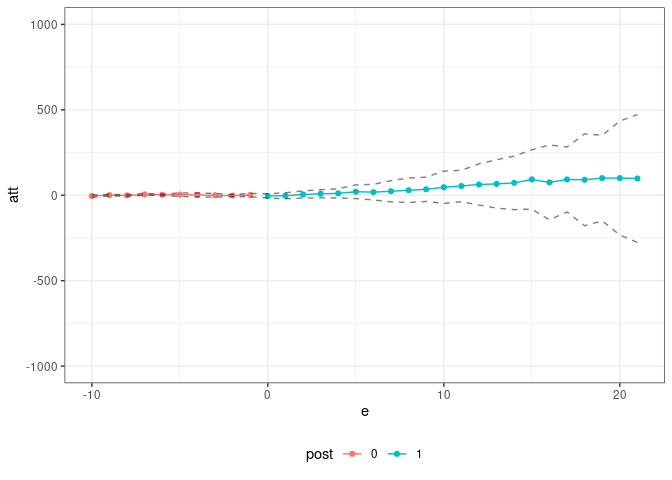
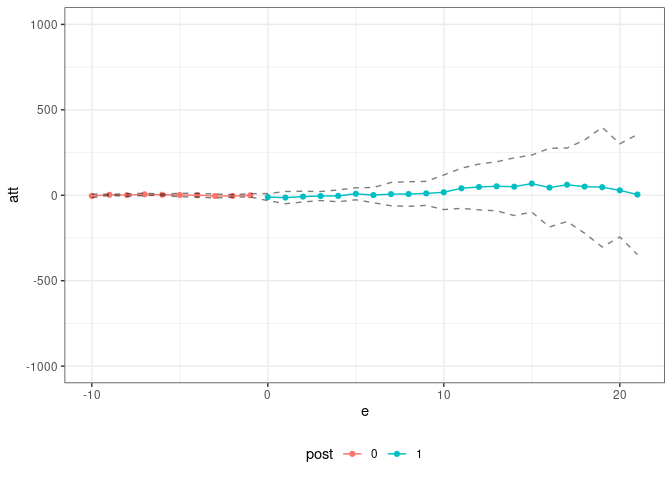
updated readme

diff --git a/README.md b/README.md
@@ -43,7 +43,7 @@ order.
 data(covid_data)
 
 # formula for covariates
-xformla <- ~ current + current^2 + current^3 + region + totalTestResults
+xformla <- ~ current + I(current^2) + I(current^2) + region + totalTestResults
 ```
 
 A first issue is that there are major overlap violations — for example,
@@ -66,8 +66,8 @@ time_id_list <- unlist(trim_id_list)
 ``` r
 # states that we will drop
 unique(subset(covid_data, state_id %in% time_id_list)$state)
-#>  [1] "AL" "CA" "CT" "FL" "GA" "IL" "LA" "ME" "MI" "MO" "MS" "NH" "NJ" "NY" "PA"
-#> [16] "RI" "SC" "TX" "VT" "WA"
+#>  [1] "AL" "CA" "CO" "CT" "FL" "GA" "IL" "LA" "ME" "MI" "MO" "MS" "NH" "NJ" "NY"
+#> [16] "PA" "RI" "SC" "TX" "VT" "WA"
 covid_data2 <- subset(covid_data, !(state_id %in% time_id_list))
 ```
 
@@ -91,52 +91,48 @@ res <- pte(yname="positive",
            xformla=xformla,
            max_e=21,
            min_e=-10) 
-#> Warning in compute.aggte(MP = MP, type = type, balance_e = balance_e, min_e
-#> = min_e, : Simultaneous conf. band is somehow smaller than pointwise one
-#> using normal approximation. Since this is unusual, we are reporting pointwise
-#> confidence intervals
 
 summary(res)
 #> 
 #> Overall ATT:  
 #>      ATT    Std. Error     [ 95%  Conf. Int.] 
-#>  74.0998        60.006   -43.5097    191.7093 
+#>  14.8882       75.3544  -132.8038    162.5801 
 #> 
 #> 
 #> Dynamic Effects:
 #>  Event Time Estimate Std. Error     [95%  Conf. Band] 
-#>         -10  -4.4309     2.5550  -11.2550      2.3932 
-#>          -9   0.6468     1.7060   -3.9098      5.2034 
-#>          -8  -1.0199     1.7757   -5.7627      3.7229 
-#>          -7   4.9369     2.0641   -0.5763     10.4500 
-#>          -6   2.7974     1.5456   -1.3307      6.9256 
-#>          -5   3.3207     3.8055   -6.8433     13.4848 
-#>          -4   2.2912     4.3123   -9.2265     13.8089 
-#>          -3  -0.3394     4.0420  -11.1351     10.4563 
-#>          -2  -1.8006     2.2299   -7.7565      4.1553 
-#>          -1   1.2608     3.5842   -8.3123     10.8339 
-#>           0  -4.0483     4.6231  -16.3961      8.2995 
-#>           1  -2.8472     6.5810  -20.4245     14.7301 
-#>           2   4.6124     7.7951  -16.2076     25.4324 
-#>           3   8.6060     8.8539  -15.0420     32.2540 
-#>           4  10.9207     9.9851  -15.7484     37.5899 
-#>           5  20.6761    15.0041  -19.3984     60.7506 
-#>           6  18.3053    17.0761  -27.3031     63.9138 
-#>           7  23.3457    23.2140  -38.6566     85.3480 
-#>           8  29.1808    26.7806  -42.3474    100.7090 
-#>           9  34.8426    26.5899  -36.1763    105.8614 
-#>          10  46.7525    35.3865  -47.7613    141.2663 
-#>          11  54.3023    34.4062  -37.5933    146.1978 
-#>          12  63.0487    45.0843  -57.3668    183.4643 
-#>          13  66.3826    52.9943  -75.1598    207.9249 
-#>          14  72.4041    58.6302  -84.1910    228.9993 
-#>          15  92.5038    65.0698  -81.2909    266.2984 
-#>          16  75.2222    82.0603 -143.9523    294.3968 
-#>          17  92.4658    71.2626  -97.8693    282.8010 
-#>          18  90.5871   100.6468 -178.2302    359.4044 
-#>          19 100.4617    93.7348 -149.8945    350.8178 
-#>          20 100.4475   124.9396 -233.2534    434.1484 
-#>          21  98.0003   140.0528 -276.0663    472.0669 
+#>         -10  -3.7266     3.8360  -14.1967      6.7435 
+#>          -9   2.6607     1.2747   -0.8185      6.1398 
+#>          -8   0.8290     2.5423   -6.1100      7.7680 
+#>          -7   5.2843     2.4902   -1.5123     12.0810 
+#>          -6   2.8555     1.5031   -1.2469      6.9580 
+#>          -5   1.3589     3.7348   -8.8348     11.5526 
+#>          -4   0.3294     3.8676  -10.2267     10.8855 
+#>          -3  -4.2227     4.3381  -16.0630      7.6177 
+#>          -2  -3.8447     2.6441  -11.0615      3.3720 
+#>          -1  -0.2234     3.4893   -9.7471      9.3004 
+#>           0 -10.8156     7.5497  -31.4218      9.7906 
+#>           1 -13.7998    13.0550  -49.4323     21.8326 
+#>           2  -7.8432    11.5299  -39.3130     23.6267 
+#>           3  -4.5541     9.7071  -31.0488     21.9406 
+#>           4  -3.5368    12.6855  -38.1608     31.0872 
+#>           5   8.5221    12.8598  -26.5774     43.6216 
+#>           6   1.1140    16.2473  -43.2314     45.4594 
+#>           7   6.6384    24.9990  -61.5939     74.8708 
+#>           8   7.1288    26.3536  -64.8008     79.0584 
+#>           9  10.8758    25.7444  -59.3911     81.1428 
+#>          10  17.5057    37.0992  -83.7530    118.7644 
+#>          11  40.8318    43.0915  -76.7823    158.4459 
+#>          12  48.6134    49.0773  -85.3385    182.5652 
+#>          13  52.4228    52.5399  -90.9800    195.8256 
+#>          14  50.2000    61.8498 -118.6131    219.0131 
+#>          15  68.2960    61.2098  -98.7703    235.3623 
+#>          16  44.7305    84.4484 -185.7633    275.2243 
+#>          17  61.4670    78.7304 -153.4203    276.3542 
+#>          18  50.4635    99.8651 -222.1089    323.0359 
+#>          19  47.3392   128.3893 -303.0872    397.7656 
+#>          20  28.6326    99.9078 -244.0563    301.3216 
+#>          21   4.3445   128.7065 -346.9476    355.6366 
 #> ---
 #> Signif. codes: `*' confidence band does not cover 0
 ```
